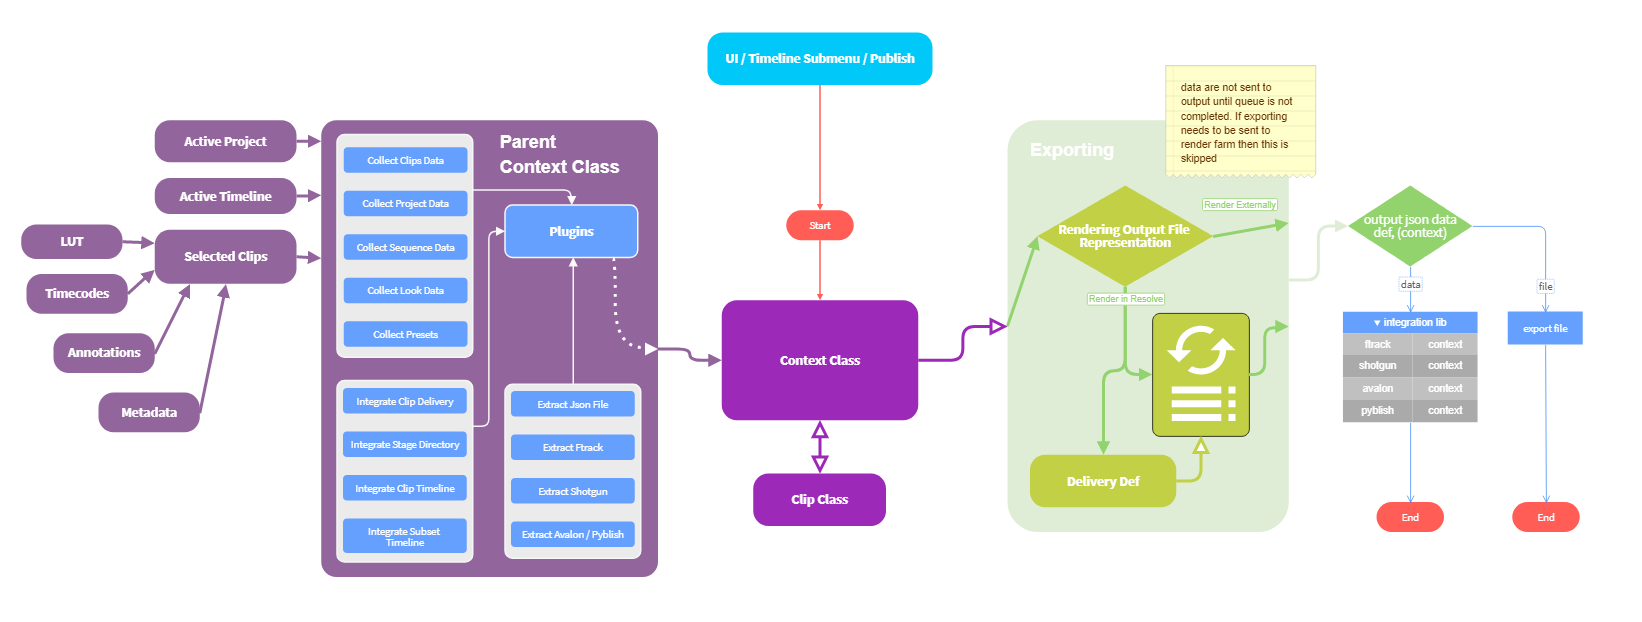
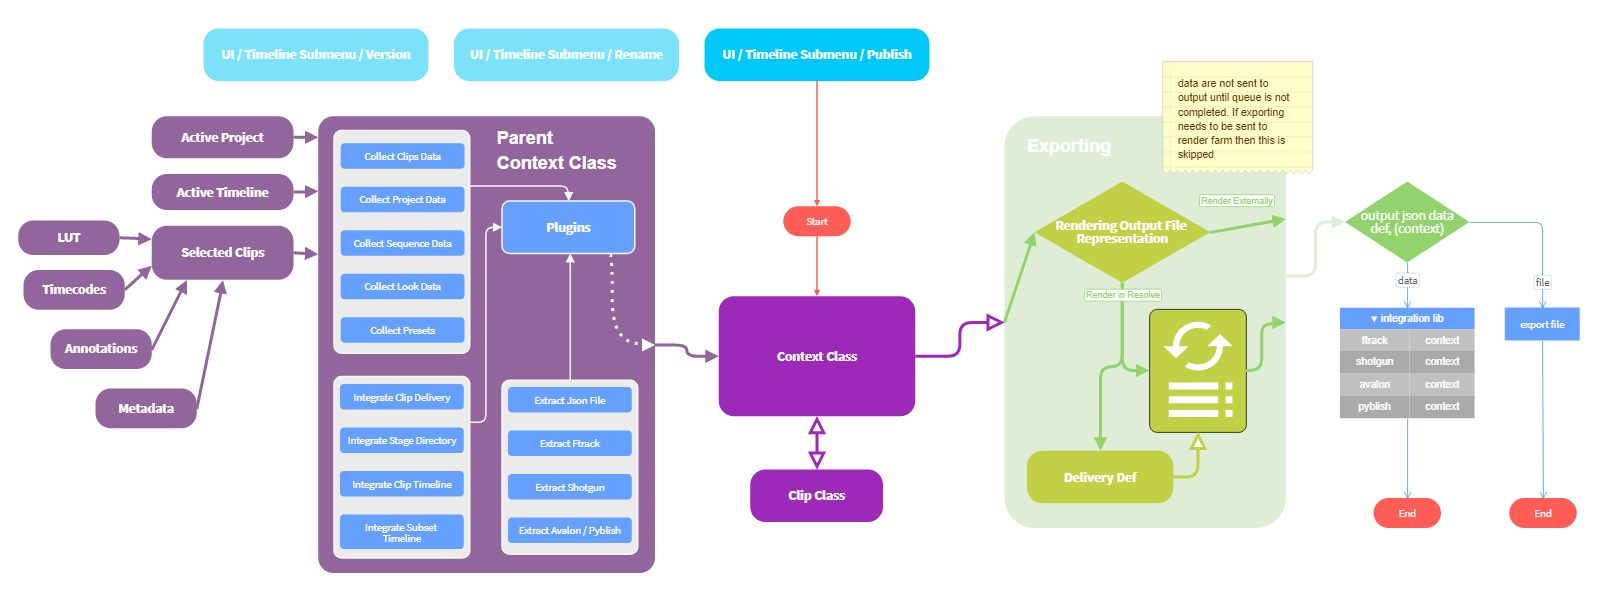
feat(main): adding Rename window flow chart image

diff --git a/README.md b/README.md
@@ -2,11 +2,6 @@
 
 ### A project management contextualisation for DaVinci Resolve
 
-![publishing flowchart ](README.assets/README-6be36da5.png)
-</br>
-Publishing processing flow chart
-</br></br>
-
 ## Idea:
 
 Version controlling Publisher and Integrator Resolve Python library for any project manager platform (PMP)
@@ -19,8 +14,8 @@ Inspiration is taken partly from NukeStudio basic concept of Clip Exporter. This
 
 -   _Context_ - dictionary object with collected processing data
 -   _Clip_ - entity with stored dictionary data for a clip
--   _Asset_ - a part of a project, such as or Shot (usually a Clip)
--   _Subset_ - a part of an Asset, such as a raw source, plates, nuke script
+-   _Asset_ - a part of a project, such as a Shot (usually a Clip)
+-   _Subset_ - a part of an Asset, such as a RAW source, plates, nuke script
 -   _Version_ - an immutable iteration of a Subset
 -   _Representation_ - one of many file representations (extensions) of a Version
 -   _Collector_ - micro-plugin with specified set of functions for collecting data from Resolve's context
@@ -29,17 +24,25 @@ Inspiration is taken partly from NukeStudio basic concept of Clip Exporter. This
 
 ## Key features:
 
--   Publishing context as json data object
+-   Publishing Resolve's context as json data object
     -   Exporting to a json file
     -   Extracting to any linked PMP API
 -   Renaming clips with template in sequence or single with additional hierarchy
 -   Integrating schema validated data back to timeline (clips, subsets with specified representations)
+
+![publishing flowchart ](README.assets/README-6be36da5.png)
+</br>
+Publishing processing flow chart
 
 ## UI concept:
 
 Adding timeline context menu items: Publish, VersionUp, VersionDown, VersionMax, VersionMin, Rename; so we could easily operate the library from the Resolve’s context.
 
 Dialogue window for Rename will let a user add hierarchical context to a clip for easy distribution into asset database with parenting. Template for name syntax can be evaluated from preset json file or from gui input field, this can be controlled with a selector.
+
+![publishing flowchart ](README.assets/README-6be34da5.png)
+</br>
+Publishing processing flow chart
 
 ## Key components:
 
@@ -86,10 +89,10 @@ Dialogue window for Rename will let a user add hierarchical context to a clip fo
     -   SingleRenameWithHierarchy
     -   GetNameTemplate (from presets or gui input)
 
+![flowChart](README.assets/README-a1c148cad.png)
+</br>
+Details of publishing classes
+
 ## OpenSource license:
 
 -   Apache 2.0
-
-## Main Data flow chart
-
-![flowChart](README.assets/README-a1c148cad.png)
